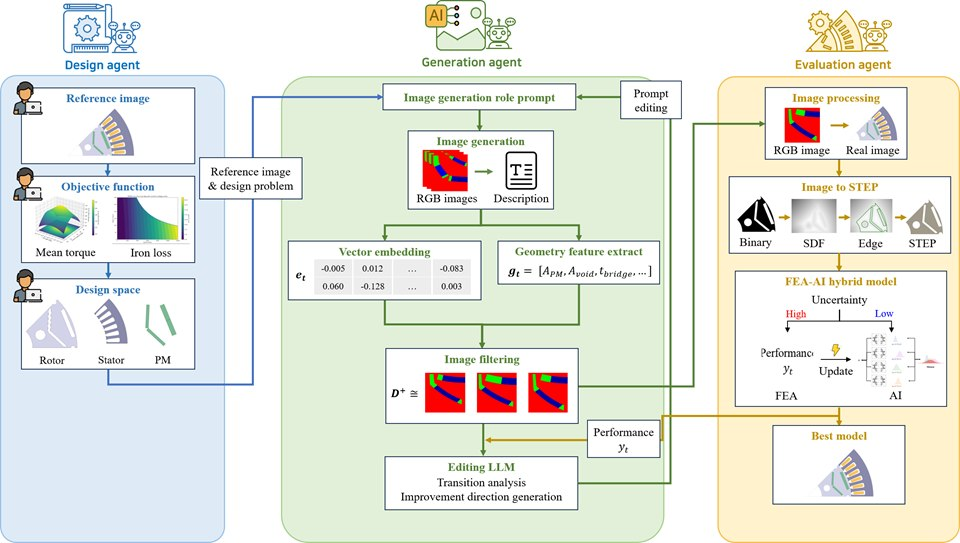
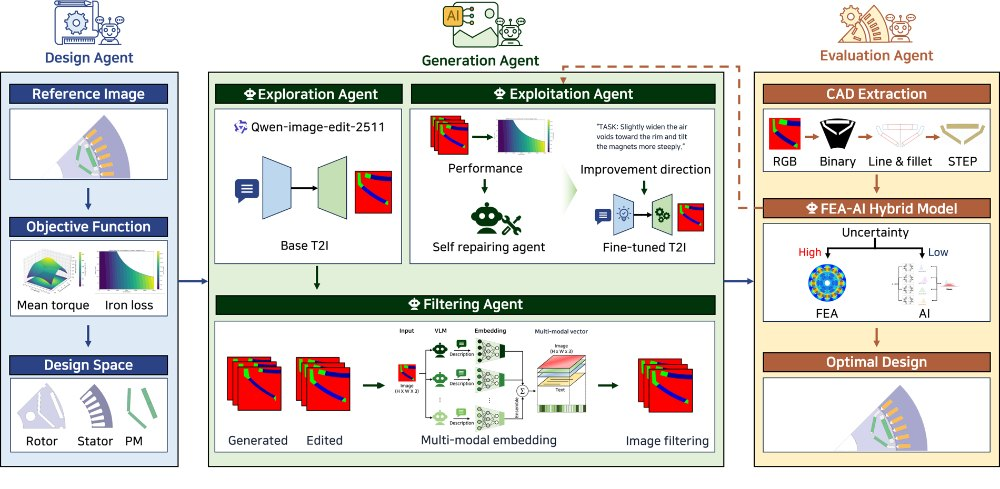
Research 02: updated non-parametric framework figure
Replace the figure with the revised pipeline (exploration / exploitation /
filtering agents, CAD extraction). New aspect ratio, so the width/height
attributes follow, and the description and alt text now match what the
figure shows. Bump asset ?v=20.

diff --git a/index.html b/index.html
@@ -23,7 +23,7 @@
   <link rel="alternate icon" href="assets/img/favicon-32.png" sizes="32x32" type="image/png">
   <link rel="apple-touch-icon" href="assets/img/apple-touch-icon.png">
 
-  <!-- Set the theme before first paint (saved choice → system preference) -->
+  <!-- Set the theme before first paint (saved choice, otherwise dark) -->
   <script>
     (function () {
       try {
@@ -37,8 +37,8 @@
   <!-- NanumSquare (Bold / ExtraBold) is declared in style.css and served from jsDelivr -->
   <link rel="preconnect" href="https://cdn.jsdelivr.net" crossorigin>
   <!-- Bump ?v= whenever style.css / main.js change, so browsers don't keep a stale cached copy -->
-  <link rel="stylesheet" href="assets/css/style.css?v=19">
-  <noscript><link rel="stylesheet" href="assets/css/noscript.css?v=19"></noscript>
+  <link rel="stylesheet" href="assets/css/style.css?v=20">
+  <noscript><link rel="stylesheet" href="assets/css/noscript.css?v=20"></noscript>
 
   <script type="application/ld+json">
   {
@@ -272,7 +272,7 @@
       <!-- Topic cards -->
       <div class="cards">
         <a class="card reveal" href="#r-nonparametric" data-modal="r-nonparametric">
-          <span class="card__fig paper"><img src="assets/img/research/nonparam-framework-thumb.jpg" width="960" height="543" alt="Design, generation and evaluation agents for non-parametric motor design" loading="lazy" decoding="async"></span>
+          <span class="card__fig paper"><img src="assets/img/research/nonparam-framework-thumb.jpg" width="1000" height="489" alt="Design, generation and evaluation agents for non-parametric motor design" loading="lazy" decoding="async"></span>
           <span class="card__body">
             <span class="no">02</span>
             <b class="card__title">Multi-Agent based Non-parametric Motor Design Optimization</b>
@@ -548,11 +548,11 @@
     </header>
     <div class="modal__body">
       <div class="prose">
-        <p>Moving beyond a fixed set of design parameters, this work lets agents explore motor shapes directly as images. A <b>design agent</b> sets up the problem from a reference image, objective functions and the design space; a <b>generation agent</b> creates rotor images, filters them with vector embeddings and geometric features, and edits its own prompts through an LLM that analyzes performance transitions; an <b>evaluation agent</b> converts each image to STEP geometry and scores it with the uncertainty-aware FEA–AI hybrid model.</p>
+        <p>Moving beyond a fixed set of design parameters, this work lets agents explore motor shapes directly as images. A <b>design agent</b> sets up the problem from a reference image, the objective functions and the design space. The <b>generation agent</b> works in three parts: an <i>exploration</i> agent draws new rotor images with a text-to-image model, an <i>exploitation</i> agent turns measured performance into an improvement direction for a fine-tuned model and repairs broken shapes, and a <i>filtering</i> agent keeps the promising candidates using a multi-modal embedding of each image and a description of it. The <b>evaluation agent</b> extracts CAD from the image — RGB to binary to line-and-fillet to STEP — and scores it with the uncertainty-aware FEA–AI hybrid model, calling FEA where the surrogate is unsure.</p>
       </div>
       <figure class="fig">
-        <a class="paper" href="assets/img/research/nonparam-framework.jpg" target="_blank" rel="noopener" title="Open full size"><img src="assets/img/research/nonparam-framework.jpg" width="2000" height="1130" alt="Design agent, generation agent and evaluation agent pipeline for non-parametric motor design" loading="lazy" decoding="async"></a>
-        <figcaption><b>Fig. 1</b> Multi-agent based IPMSM design — design, generation and evaluation agents.</figcaption>
+        <a class="paper" href="assets/img/research/nonparam-framework.jpg" target="_blank" rel="noopener" title="Open full size"><img src="assets/img/research/nonparam-framework.jpg" width="1900" height="930" alt="Pipeline of a design agent, a generation agent made of exploration, exploitation and filtering agents, and an evaluation agent doing CAD extraction and FEA–AI evaluation" loading="lazy" decoding="async"></a>
+        <figcaption><b>Fig. 1</b> Multi-agent based IPMSM design — design, generation (exploration · exploitation · filtering) and evaluation agents.</figcaption>
       </figure>
       <figure class="fig">
         <a class="paper" href="assets/img/research/nonparam-editing.jpg" target="_blank" rel="noopener" title="Open full size"><img src="assets/img/research/nonparam-editing.jpg" width="1897" height="543" alt="Baseline motor geometry and four edited non-parametric rotor images" loading="lazy" decoding="async"></a>
@@ -655,6 +655,6 @@
   </article>
 </dialog>
 
-<script src="assets/js/main.js?v=19" defer></script>
+<script src="assets/js/main.js?v=20" defer></script>
 </body>
 </html>

diff --git a/404.html b/404.html
@@ -16,7 +16,7 @@
     })();
   </script>
   <link rel="preconnect" href="https://cdn.jsdelivr.net" crossorigin>
-  <link rel="stylesheet" href="/assets/css/style.css?v=19">
+  <link rel="stylesheet" href="/assets/css/style.css?v=20">
   <style>
     .lost { min-height: 100dvh; display: grid; place-content: center; justify-items: start; gap: 14px; }
     .lost h1 { font-weight: 800; font-size: clamp(44px, 9vw, 92px); line-height: 1.02; letter-spacing: -.03em; }
